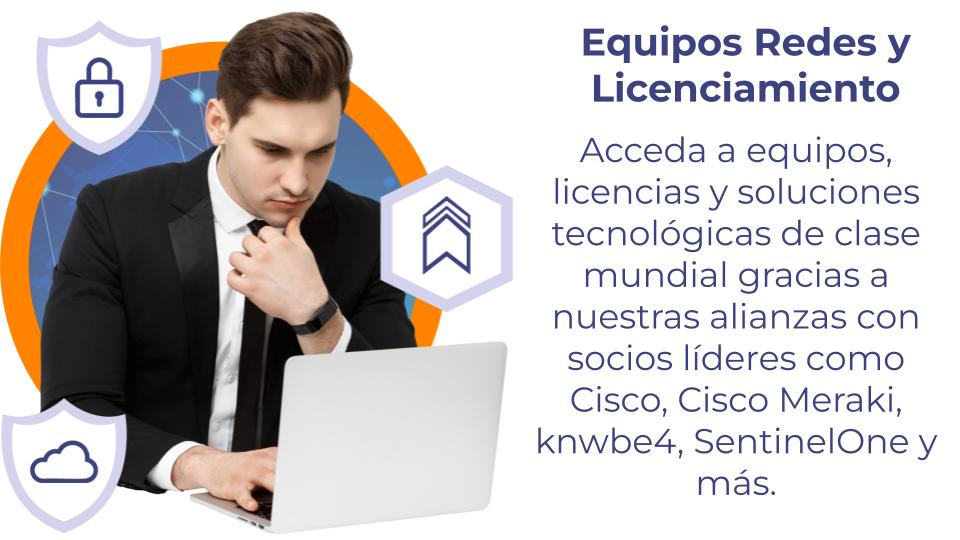
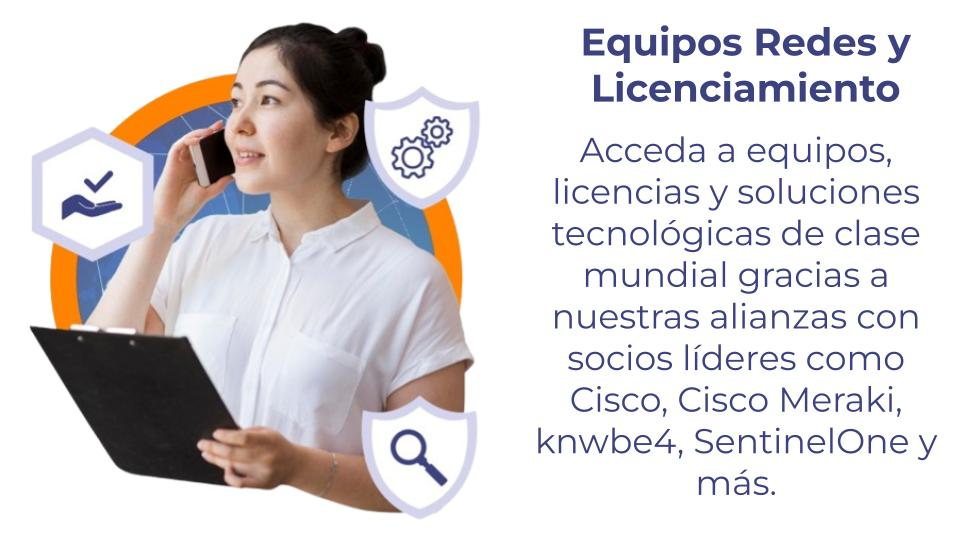
ajustes, letra titulos

diff --git a/Ciberseguridad.html b/Ciberseguridad.html
@@ -201,7 +201,7 @@
 									<h5>Ciberseguridad</h5>
 								</div>
 								<div class="section-main-title">
-									<h1 style="font-family: Montserrat-Bold; color:#3C4280;text-align: center;" >Ciberseguridad</h1>
+									<h1 style="   color:#3C4280;text-align: center;" >Ciberseguridad</h1>
 								</div>
 								<div class="section-description">
 									<p>Con la implementación de sistemas de gestión de seguridad de la información Sinaptic® tendra todo el control</p>
@@ -214,14 +214,14 @@
 								</div>
 							</div>
 							<div class="shape-img">
-								<img src="assets/images/shape.png" alt="about img">
+								<img src="assets/images/shape.png" alt="about img" style="max-width: 100%; height: auto;">
 							
 							</div>
 						</div>
 					</div>
 					<div class="col-lg-6 col-md-6 col-sm-12">
 						<div class="about-thumb">
-							<img src="assets/images/CiberSeg.png" alt="about img" style="transform: scale(0.9);">
+							<img src="assets/images/CiberSeg.png" alt="about img" style="max-width: 100%; height: auto;">
 						</div>
 
 
@@ -237,11 +237,11 @@
 							<div hidden class="section-sub-title">
 								<h5 hidden >Ciberseguridad</h5>
 							</div>
-							<div hidden class="section-main-title">
-								<h1 style="font-family: Montserrat-Bold; color:#121228;text-align: center;" >Ciberseguridad</h1>
+							<div  class="section-main-title">
+								<h1 style="   color:#3C4280;text-align: center;" >Avanzada para proteger su infraestructura, datos y operaciones con soluciones personalizadas y experiencia global</h1>
 							</div>
 							<div class="section-description">
-								<p style="font-family: Montserrat-Regular; color:#3C4280;" >Avanzada para proteger su infraestructura, datos y operaciones con soluciones personalizadas y experiencia global</p>
+								<p style="font-family: Montserrat-Regular; color:#3C4280;" ></p>
 								
 							</div>
 							<div class="zomia-button">
@@ -498,7 +498,7 @@
 						<h5>Certificaciones</h5>
 					</div>
 					<div class="section-main-title">
-						<h1 style="font-family: Montserrat-Bold; color:#3C4280;text-align: center;" >Certificaciones</h1>
+						<h1 style=" ; color:#3C4280;text-align: center;" >Certificaciones</h1>
 						<br>
 										</div>
 					<div class="section-description">

diff --git a/RedesCorporativas.html b/RedesCorporativas.html
@@ -206,7 +206,7 @@
 									<h1 style="  color:#3C4280;text-align: center;" >Redes Corporativas</h1>
 								</div>
 								<div class="section-description">
-									<p style="font-family: Montserrat-Regular; color:#3C4280;text-align: center;" >Optimice la comunicación y el rendimiento de su organización con soluciones de redes seguras, robustas y escalables.</p>
+									<p style="    color:#3C4280;text-align: center;" >Optimice la comunicación y el rendimiento de su organización con soluciones de redes seguras, robustas y escalables.</p>
 								</div>
 							</div>
 							<div class="zomia-button">
@@ -223,7 +223,7 @@
 					</div>
 					<div class="col-lg-6 col-md-6 col-sm-12">
 						<div class="about-thumb">
-							<img src="assets/images/CiberSeg.png" alt="about img" style="transform: scale(0.9);">
+							<img src="assets/images/15-removebg-preview.png" alt="about img" style="max-width: 100%; height: auto;">
 						</div>
 
 					
@@ -243,7 +243,7 @@
 								<h1 style="  color:#3C4280;text-align: center;" >¿Su red empresarial está preparada para el futuro digital?</h1>
 							</div>
 							<div class="section-description">
-								<p style="font-family: Montserrat-Regular; color:#3C4280;" >Los problemas comunes que afectan la productividad y seguridad de las empresas incluyen:</p>
+								<p style="    color:#3C4280;" >Los problemas comunes que afectan la productividad y seguridad de las empresas incluyen:</p>
 							</div>
 						</div>
 						<div class="about-content">
@@ -275,7 +275,7 @@
 								<h1 style="  color:#3C4280;text-align: center;" >Soluciones de redes a la medida de su organización.</h1>
 							</div>
 							<div class="section-description">
-								<p style="font-family: Montserrat-Regular; color:#3C4280;" >
+								<p style="    color:#3C4280;" >
 									Garantizamos una conectividad eficiente y segura con tecnología de vanguardia, diseñada para adaptarse a las necesidades de su empresa.</p>
 							</div>
 						</div>

diff --git a/contact.html b/contact.html
@@ -498,7 +498,7 @@
 			<div class="container-footer">
 				<div class="footer-column">
 					<div class="footer-heading">
-						<h2 class="">Sinaptic</h2>
+						<h2 class="">SINAPTIC.io</h2>
 					</div>
 					<div class="column-links">
 						<a href="#">Sobre nosotros</a>
@@ -576,7 +576,7 @@
 								<svg xmlns="http://www.w3.org/2000/svg" height="20px" viewBox="0 -960 960 960" width="20px" fill="white"><path d="M763-145q-121-9-229.5-59.5T339-341q-86-86-135.5-194T144-764q-2-21 12.29-36.5Q170.57-816 192-816h136q17 0 29.5 10.5T374-779l24 106q2 13-1.5 25T385-628l-97 98q20 38 46 73t57.97 65.98Q422-361 456-335.5q34 25.5 72 45.5l99-96q8-8 20-11.5t25-1.5l107 23q17 5 27 17.5t10 29.5v136q0 21.43-16 35.71Q784-143 763-145ZM255-600l70-70-17.16-74H218q5 38 14 73.5t23 70.5Zm344 344q35.1 14.24 71.55 22.62Q707-225 744-220v-90l-75-16-70 70ZM255-600Zm344 344Z"/></svg>
 							</span>
 							<span >
-								+52 (55)73162284
+								+52 1 55 6119 2756
 							</span>
 						</a>
 						<a href="#">
@@ -618,7 +618,7 @@
 				</div>
 			</div>
 			<div class="footer-bottom">
-				<span>Copyright © Sinaptic all rights reserved.</span>
+				<span>Copyright © Sinaptic.io all rights reserved.</span>
 			</div>
 		</footer>
 

diff --git a/RedesLicenciamiento.html b/RedesLicenciamiento.html
@@ -203,7 +203,7 @@
 									<h1 style="   color:#3C4280;text-align: center;" >Equipos, Herramientas y Licencias</h1>
 								</div>
 								<div class="section-description">
-									<p style="font-family: Montserrat-Regular; color:#3C4280;text-align: center;" >Acceda a equipos, licencias y soluciones tecnológicas de clase mundial gracias a nuestras alianzas con socios líderes como Cisco, Cisco Meraki, knwbe4, SentinelOne y más.
+									<p style="     color:#3C4280;text-align: center;" >Acceda a equipos, licencias y soluciones tecnológicas de clase mundial gracias a nuestras alianzas con socios líderes como Cisco, Cisco Meraki, knwbe4, SentinelOne y más.
 									</p>
 								</div>
 							</div>
@@ -220,7 +220,7 @@
 					</div>
 					<div class="col-lg-6 col-md-6 col-sm-12">
 						<div class="about-thumb">
-							<img src="assets/images/CiberSeg.png" alt="about img" style="transform: scale(0.9);">
+							<img src="assets/images/7-removebg-preview.png" alt="about img" style="max-width: 100%; height: auto;">
 						</div>
 
 					

diff --git a/style.css b/style.css
@@ -182,13 +182,11 @@ a.added-new-demo:after {
     background: #fff;
     border-color: #fff;
     color: #3C4280;
-    font-family: "Montserrat-Bold", Montserrat-Bold;
 }
 .header-donate-btn a:hover {
     background: linear-gradient( to right, #FF8200 0%, #FF8200 97%);
     border-color: #695AF8;
     color: #fff;
-    font-family: "Montserrat-Bold", Montserrat-Bold;
 }
 /*============================
 	header-area-end
@@ -601,8 +599,7 @@ a.hero-button-01:hover {
     font-size: 16px;
 }
 .about-btn.left a:hover {
-    background: linear-gradient(to right, #3C4280 0%, #121228 97%);
-    font-family: "Montserrat-Bold", Montserrat-Bold;
+    background: linear-gradient(to right, #FF8200 0%, #FF8200 97%);
 }
 .team-area.about-us{
     background-color: #ffffff;

diff --git a/SeguridadDeLaInformacion.html b/SeguridadDeLaInformacion.html
@@ -225,7 +225,7 @@
 					</div>
 					<div class="col-lg-6 col-md-6 col-sm-12">
 						<div class="about-thumb">
-							<img src="assets/images/CiberSeg.png" alt="about img" style="transform: scale(0.9);">
+							<img src="assets/images/9-removebg-preview.png" alt="about img" style="max-width: 100%; height: auto;">
 						</div>
 
 					

diff --git a/footer.css b/footer.css
@@ -42,6 +42,7 @@ body {
     font-size: 18px;
     margin-bottom: 10px;
     color: #fff;
+
 }
 
 .column-links a {
